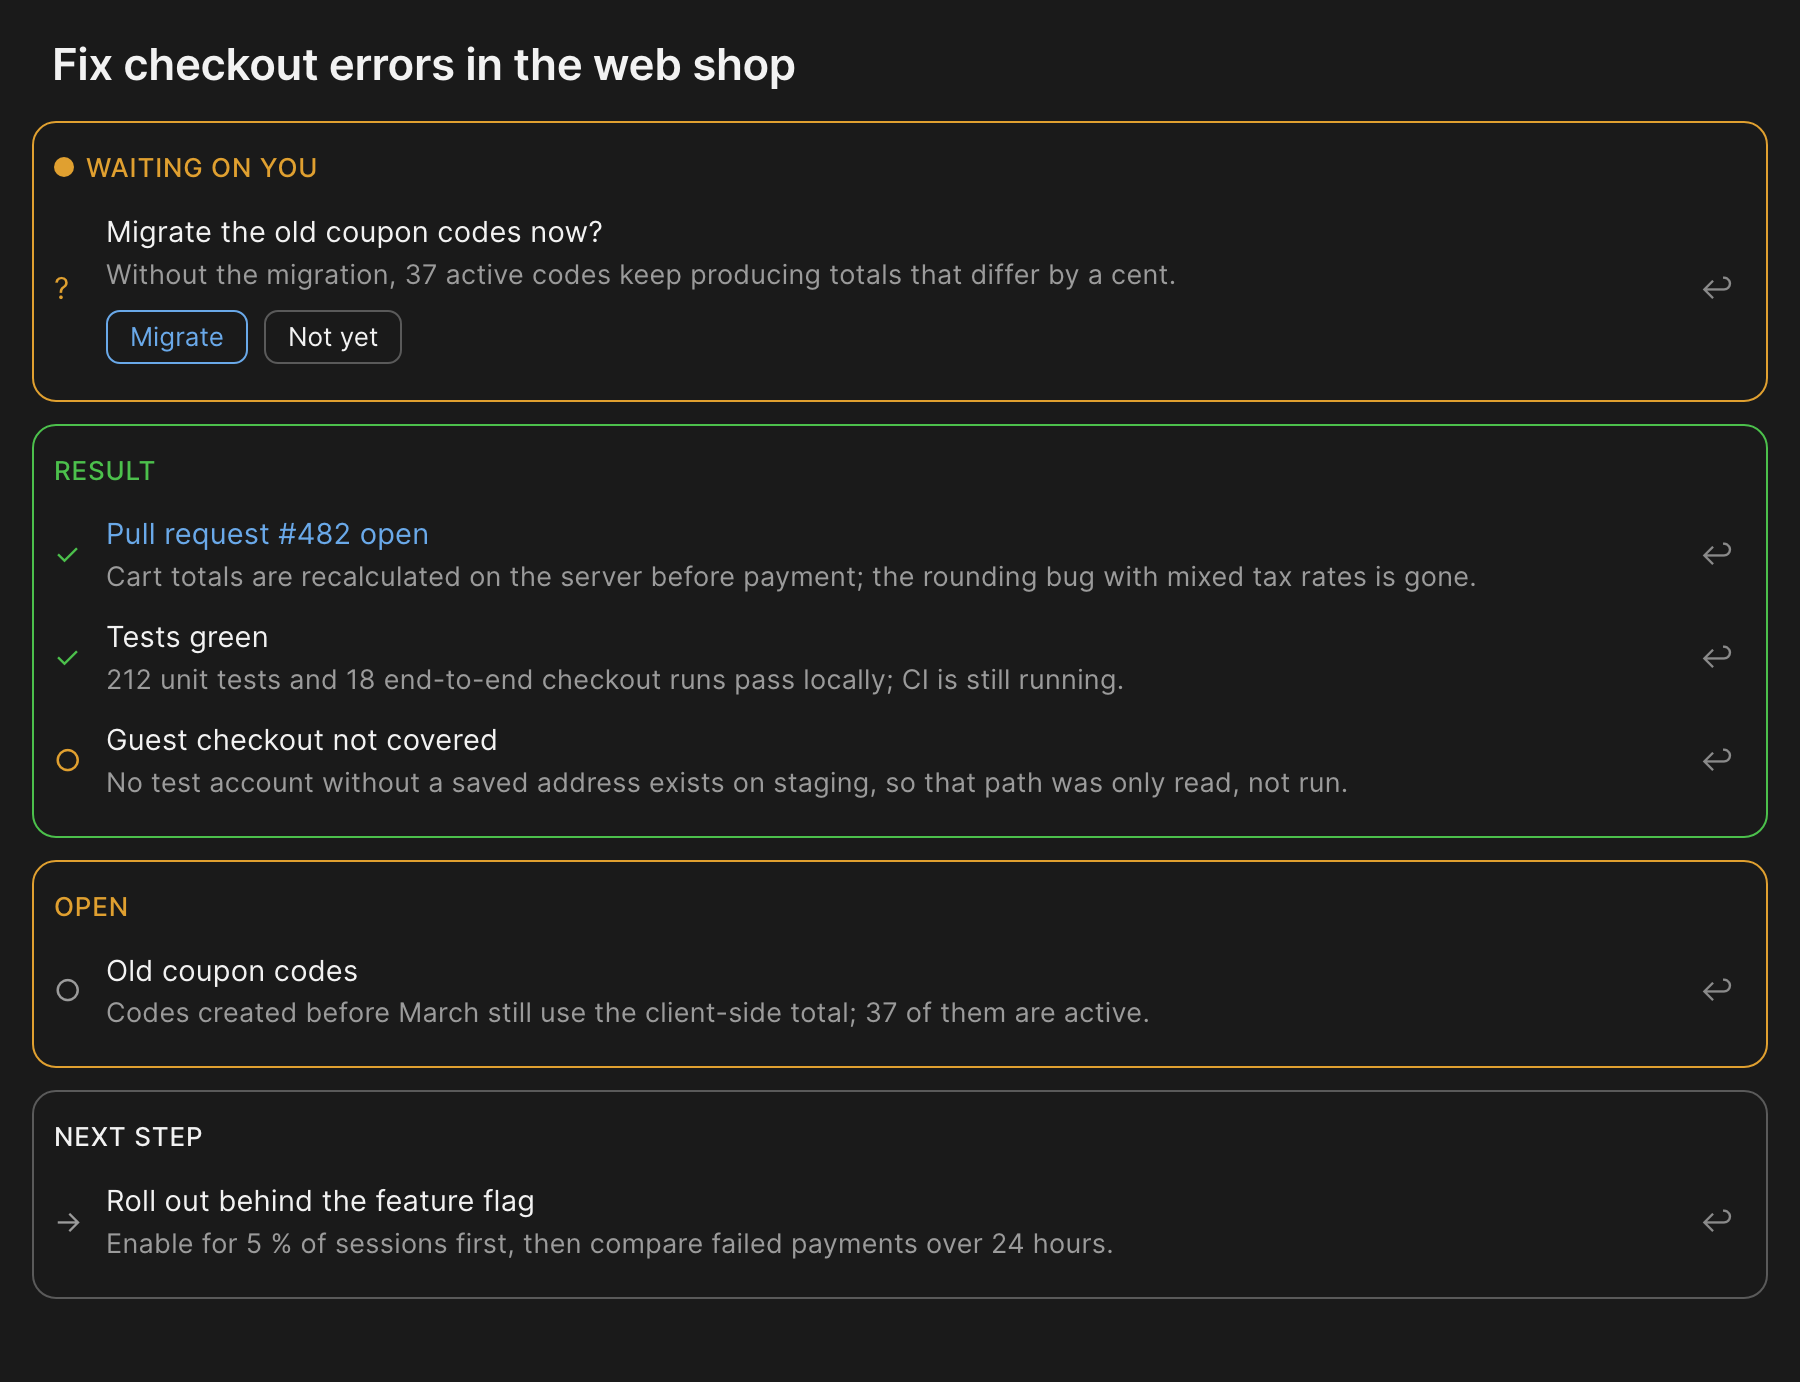
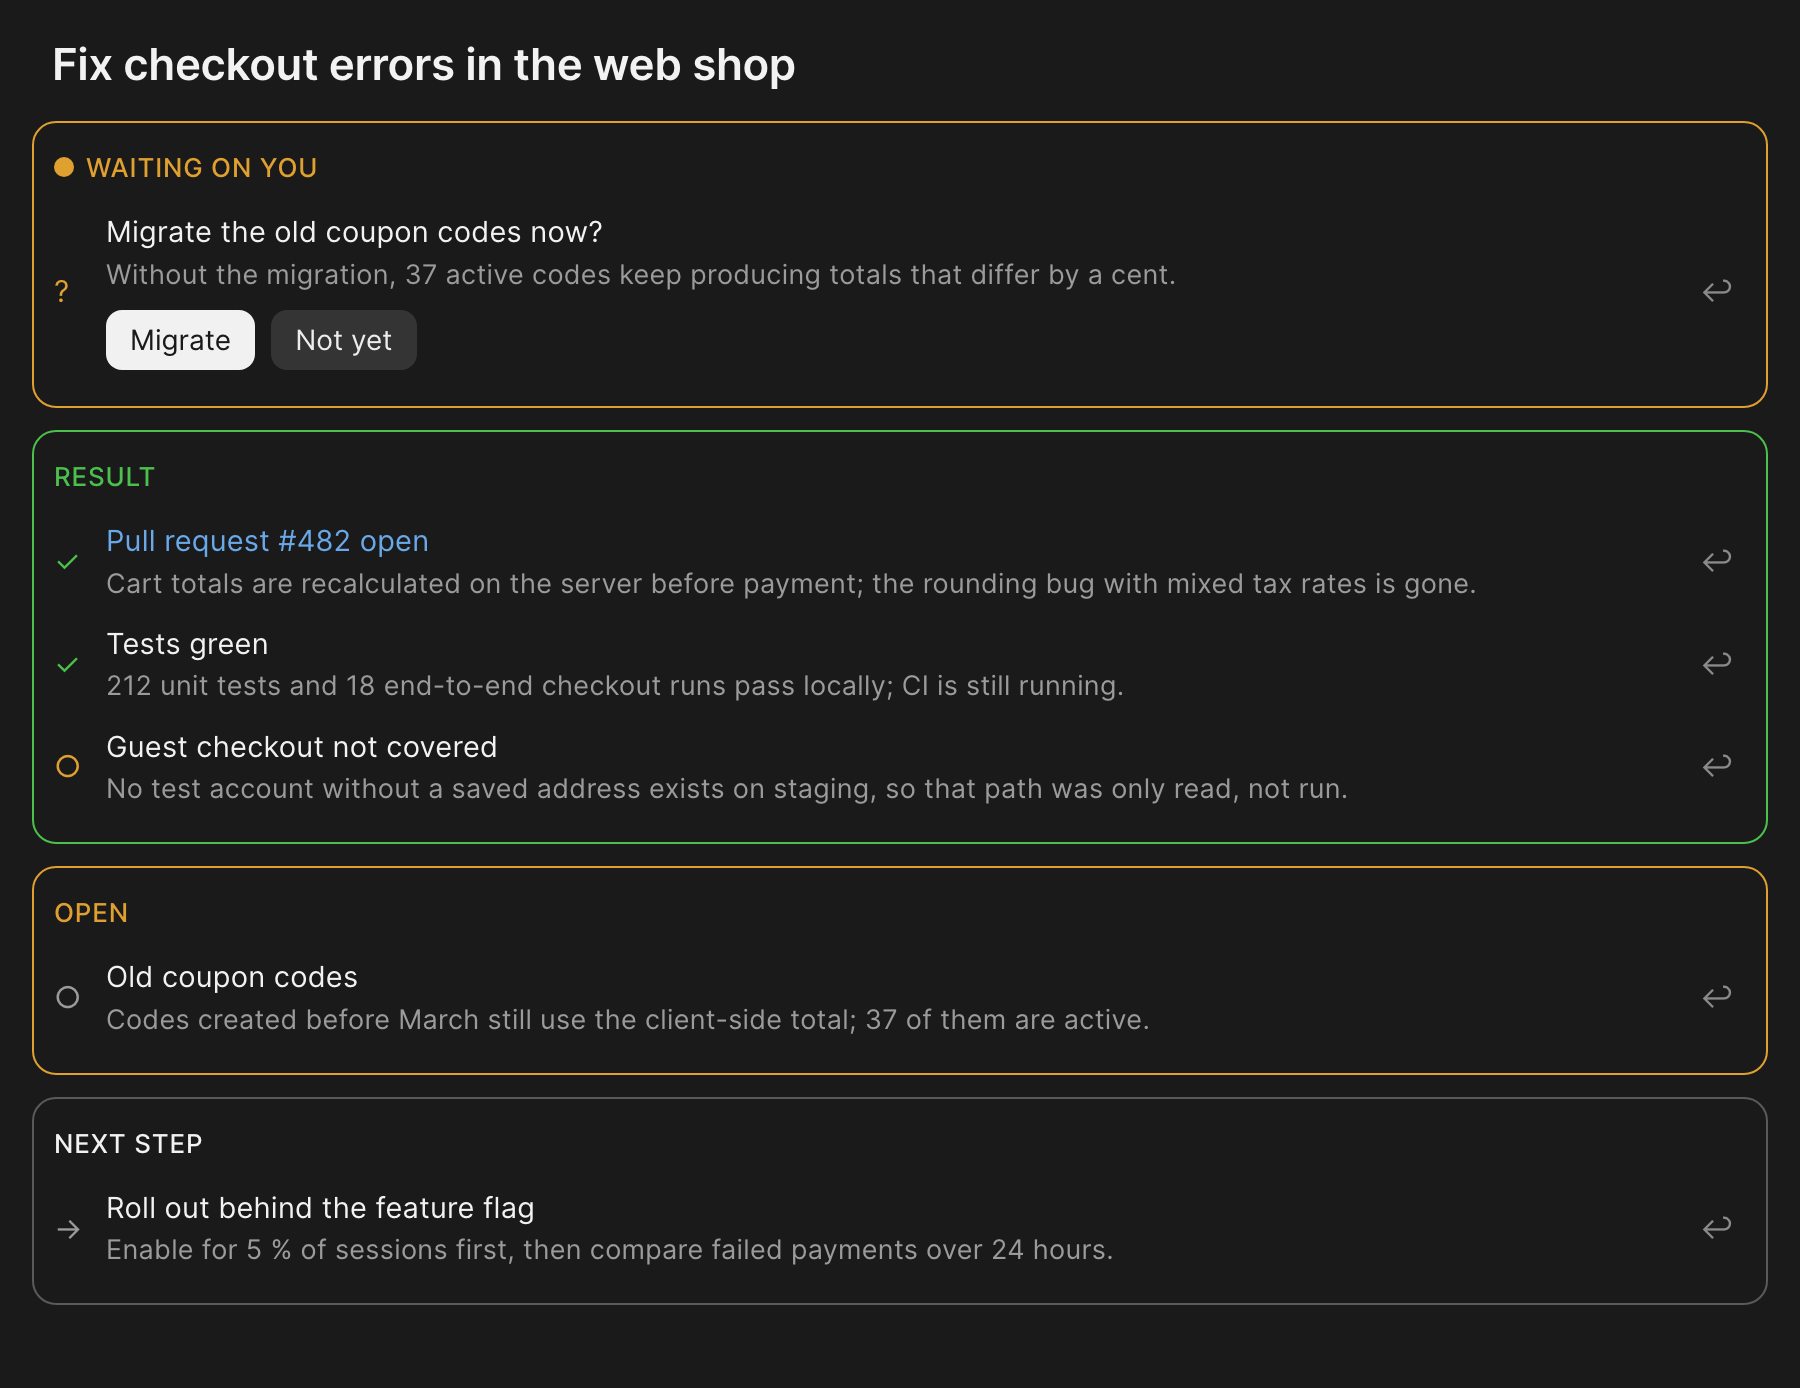
README: screenshot of questions collected from the chat

diff --git a/README.md b/README.md
@@ -22,6 +22,11 @@ In the desktop app, with a question waiting on you and its answer buttons:
 
 ![Glance pane in the desktop app](docs/glance-desktop.png)
 
+Questions that come up in the chat are collected at the top, so none gets
+lost in the scrollback. A click on a button answers one:
+
+![Glance pane with a question from the chat and three answer buttons](docs/glance-questions.png)
+
 Linked items, a ★ for a notable finding and a collapsed side section:
 
 ![Glance pane with links and a collapsed section](docs/glance-links.png)
